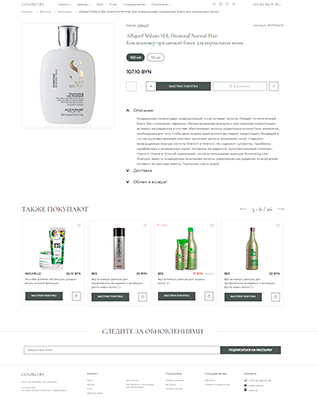
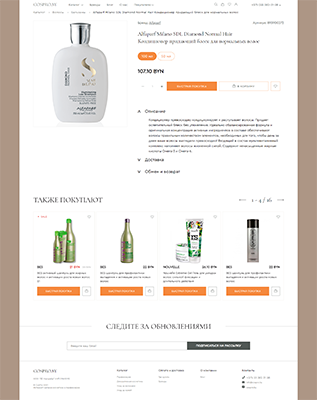
feat: add new project (shop)

diff --git a/index.html b/index.html
@@ -152,15 +152,15 @@
             <!-- Slides -->
             <div class="swiper-slide project-slide">
               <a href="https://aliaksandr-bandziuk.github.io/cosproBandziuk/" target="_blank">
-                <img src="img/projects/project5.png" alt="Верстка карточки товара" class="project-image"></a>
+                <img src="img/projects/project5.png" alt="Верстка интернет-магазина" class="project-image"></a>
               
             <div class="project-text">
-              <h3 class="project-title">Верстка карточки товара</h3>
+              <h3 class="project-title">Верстка интернет-магазина</h3>
               <div class="project-time">
                 <img src="img/time-icon.svg" alt="Срок выполнения задачи" class="project-icon">
                 <div class="project-description">
                   <h4 class="project-subtitie">Срок</h4>
-                  <p class="project-paragraph">10 часов</p>
+                  <p class="project-paragraph">6 рабочих дней</p>
                 </div>
               </div>
               <!-- /.project-time -->
@@ -168,7 +168,7 @@
                 <img src="img/cost-icon.svg" alt="Срок выполнения задачи" class="project-icon">
                 <div class="project-description">
                   <h4 class="project-subtitie">Стоимость</h4>
-                  <p class="project-paragraph">4 000 рублей</p>
+                  <p class="project-paragraph">8 000 рублей</p>
                 </div>
               </div>
               <!-- /.project-cost -->
@@ -177,7 +177,7 @@
                 <div class="project-description">
                   <h4 class="project-subtitie">Детали проекта</h4>
                   <p class="project-paragraph">
-                    Адаптивная верстка карточки товара с выпадающим меню, аккордеоном, слайдером и анимацией при наведении на картинки. Технологии: HTML, CSS, JavaScript, swiperJS.
+                    Адаптивная верстка интернет-магазина. Фичи: выпадающее меню, аккордеон, слайдеры (автоматические), фиксированное меню и сайдбар при скролле. Технологии: HTML, CSS (SCSS), JavaScript, JQuery, сторонние библиотеки.
                   </p>
                 </div>
               </div>
